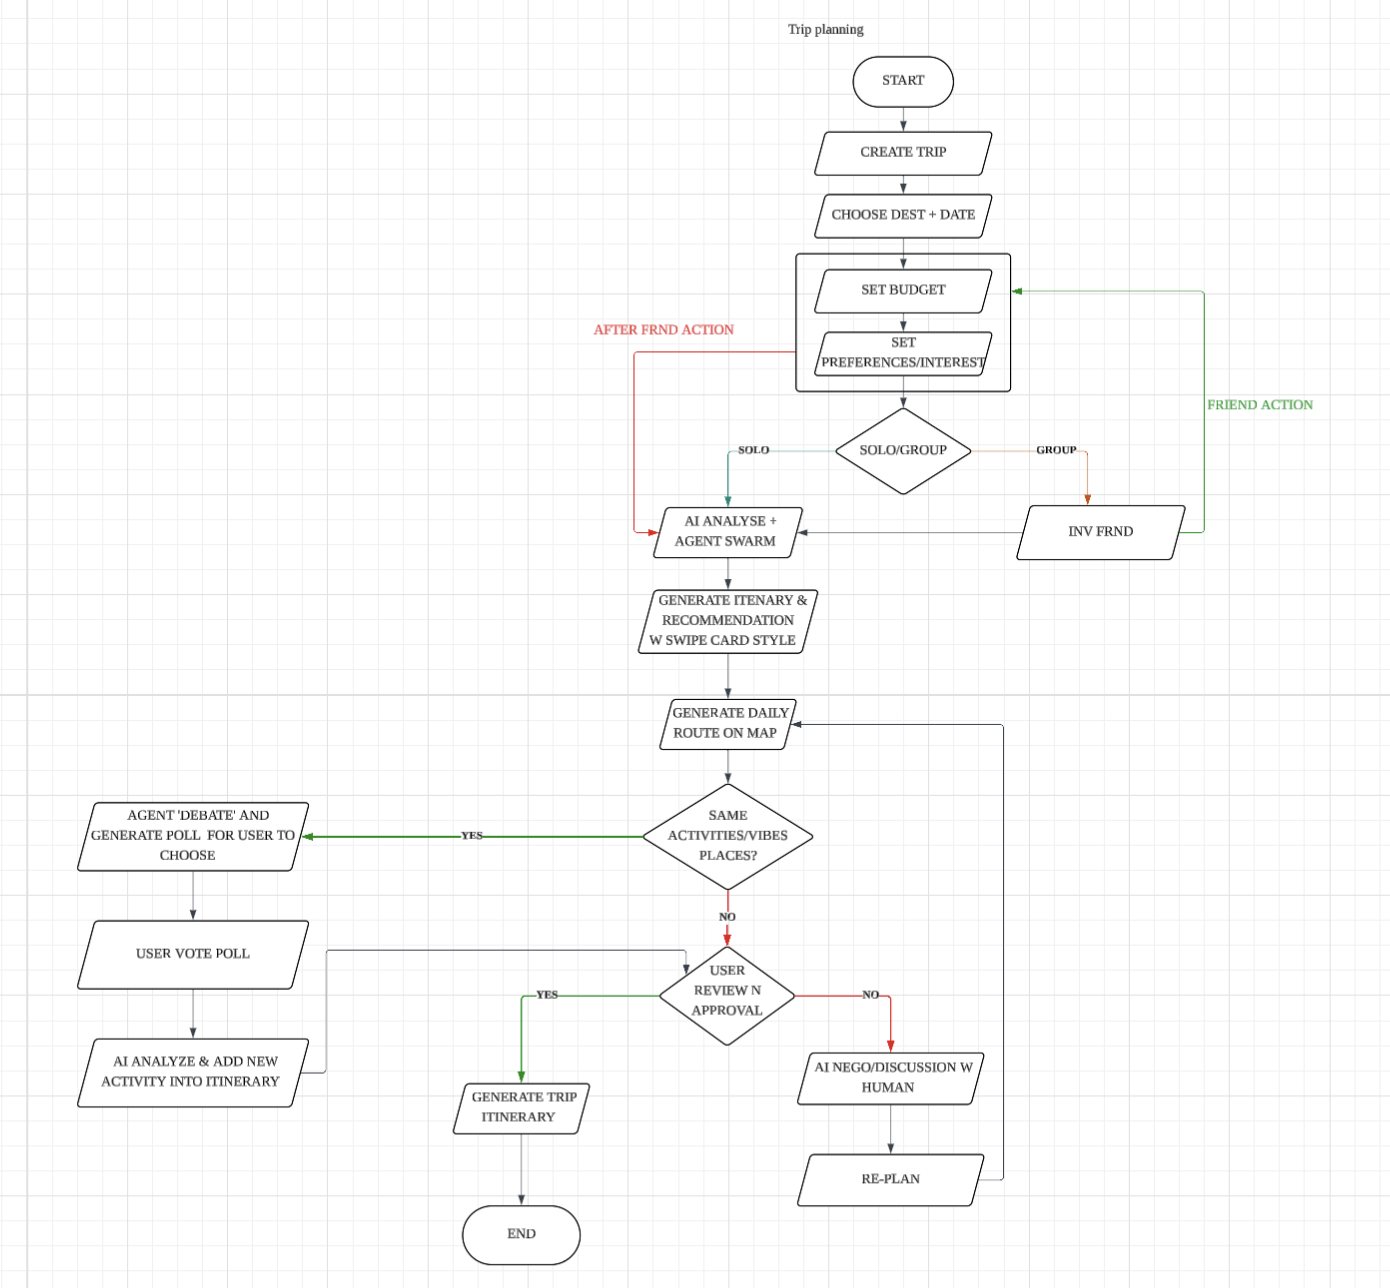
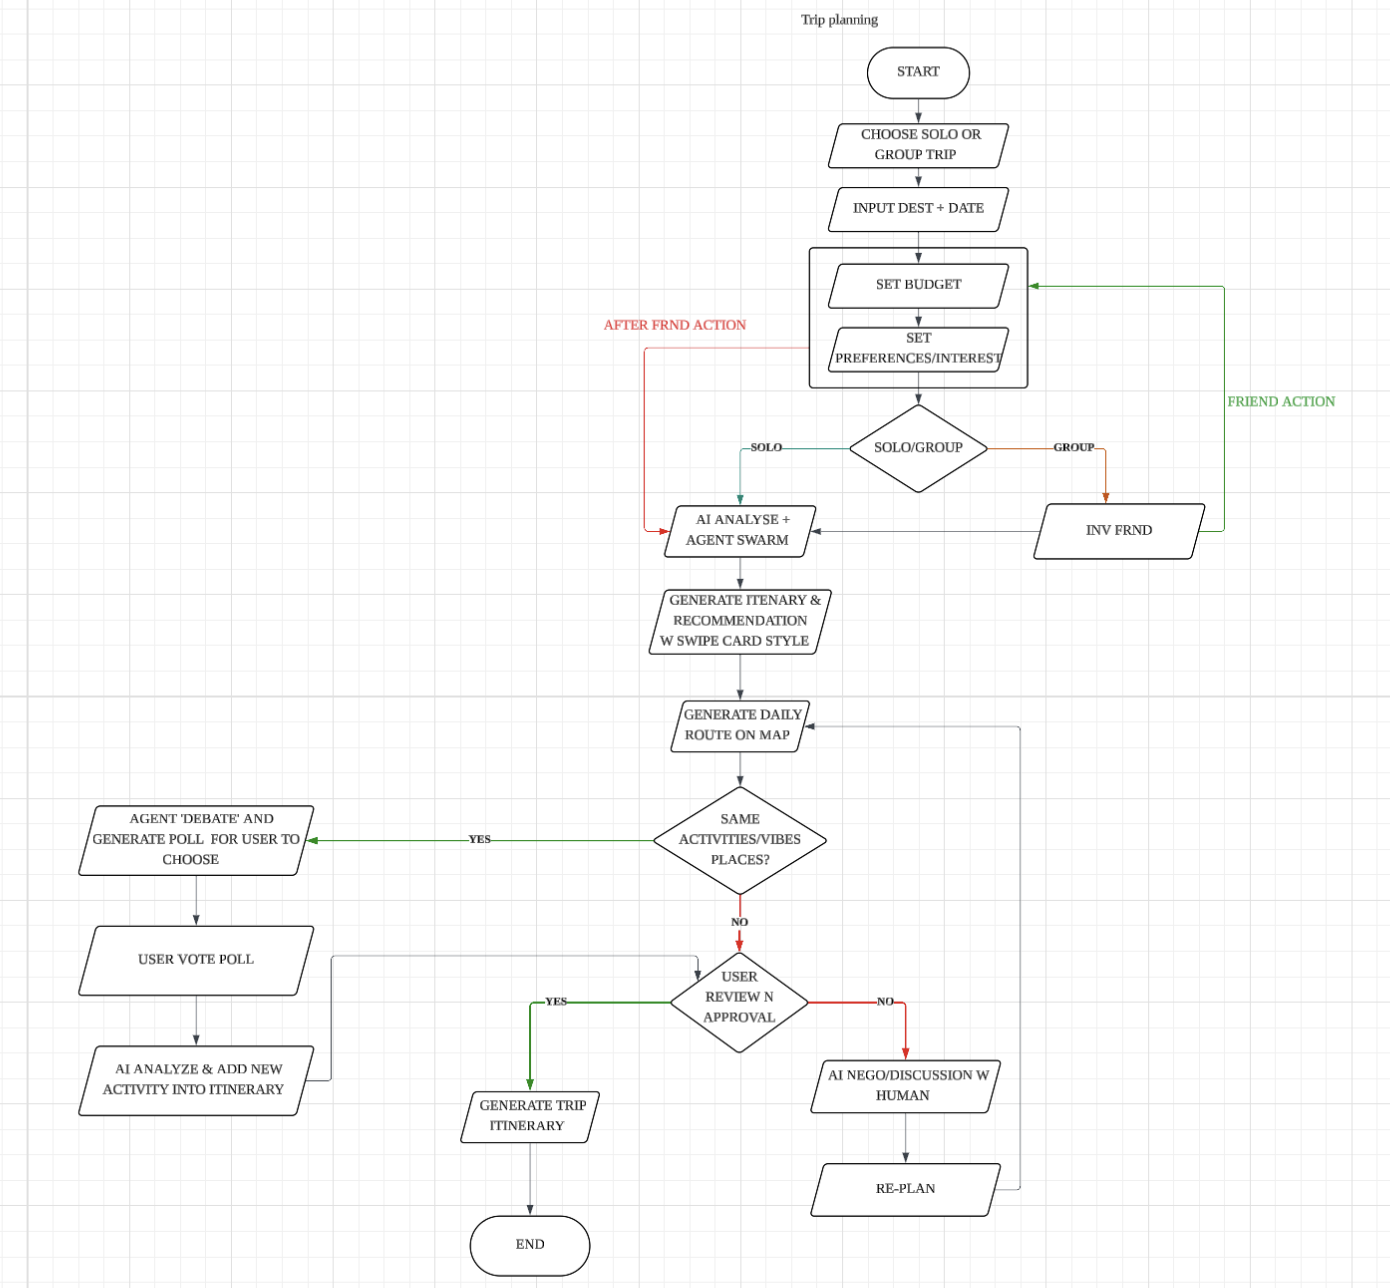
update README

diff --git a/README.md b/README.md
@@ -228,6 +228,8 @@ The Chat Hub introduces Discord-inspired sections inside the group conversation,
                   └────────────────────────┘
 ```
 
+![System Architecture](docs/assets/system-architecture.png)
+
 ## 5.3 AI Agent Architecture
 
 GoLah uses a **multi-agent AI architecture**.
